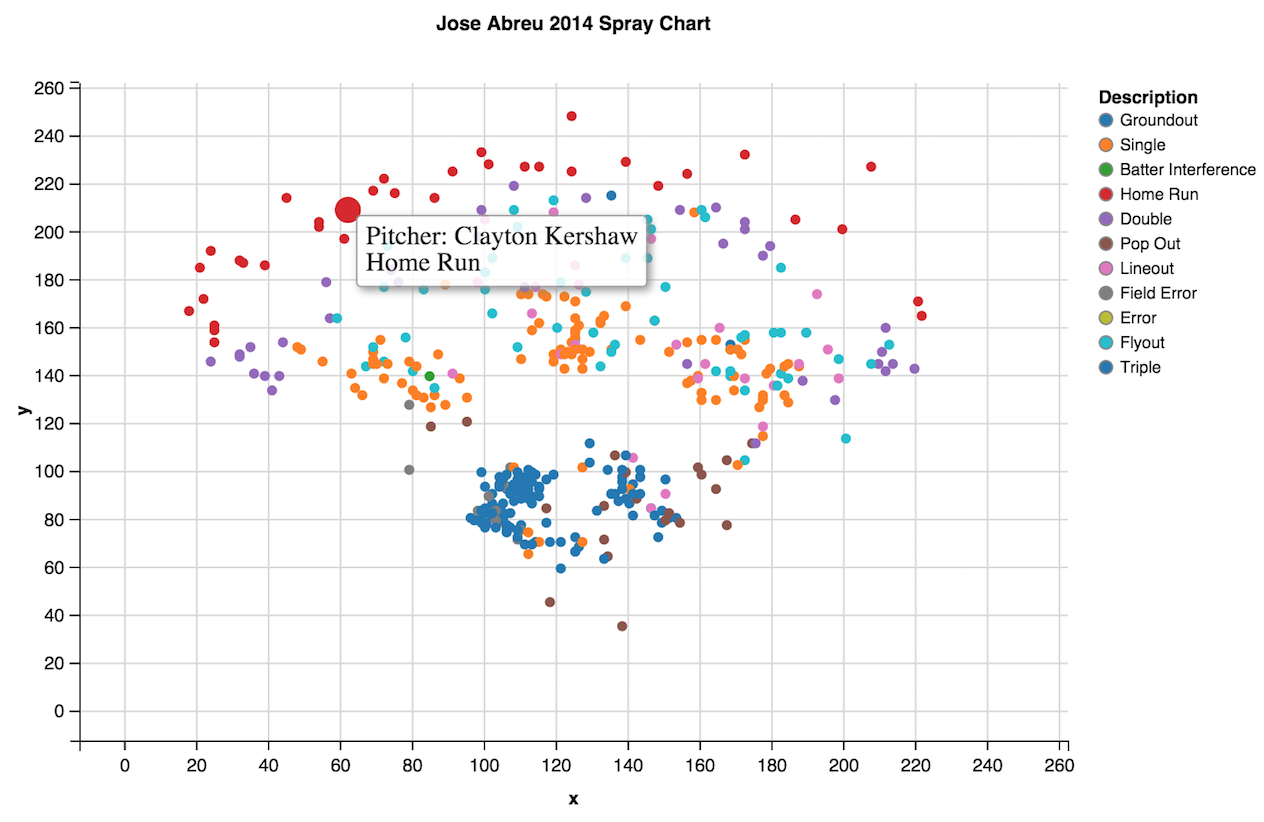
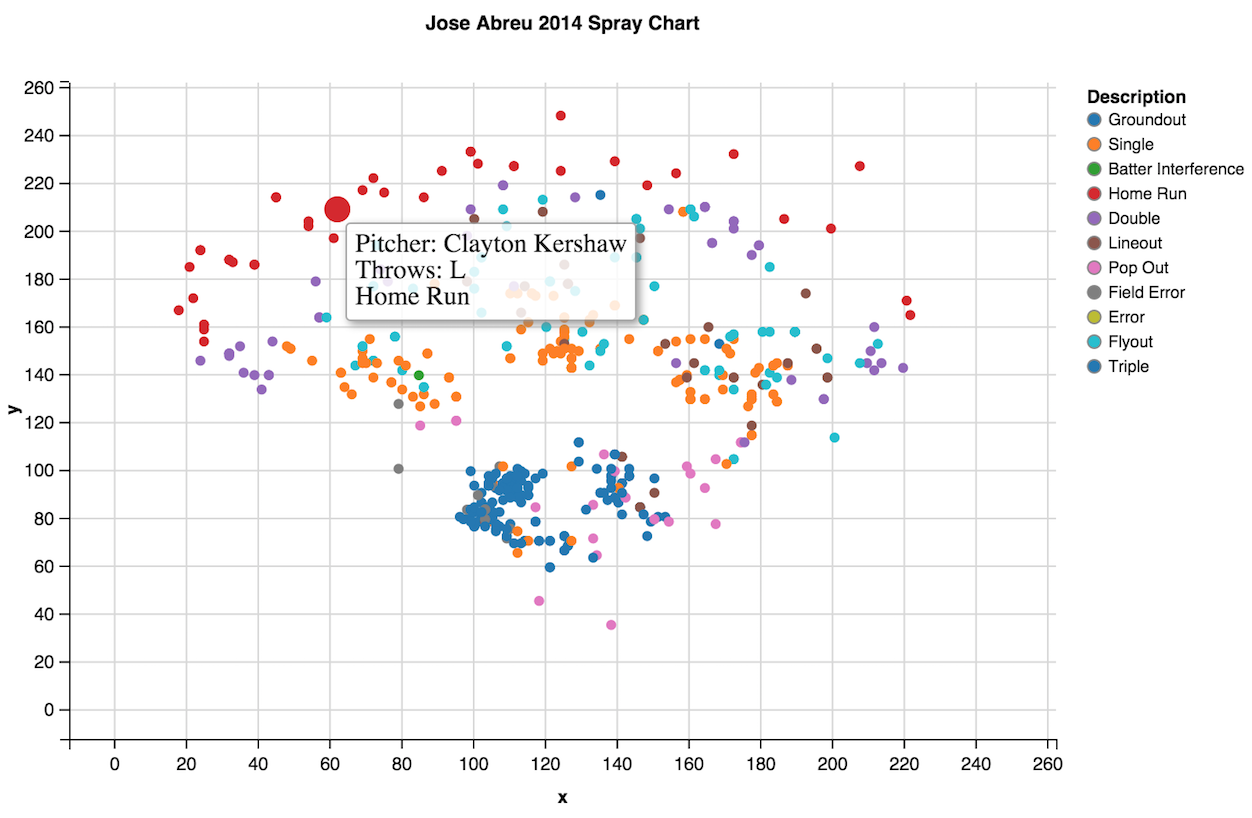
update

diff --git a/_posts/2015-03-23-spraychart.md b/_posts/2015-03-23-spraychart.md
@@ -79,17 +79,20 @@ Create a ggvis tooltip to be used when hovering over points.
 
 ```r
 # Create ggvis tooltip  
-spraychart$id <- 1:nrow(spraychart)
-
-all_values <- function(x) {
-  if(is.null(x)) return(NULL)
+  spraychart$id <- 1:nrow(spraychart)
   
-  paste0("Pitcher: ",
-         spraychart$pitcher.name[x$id],
-         "<br>",
-         spraychart$Description[x$id]
-  )
-}
+  all_values <- function(x) {
+    if(is.null(x)) return(NULL)
+    
+    paste0("Pitcher: ",
+           spraychart$pitcher.name[x$id],
+           "<br>",
+           "Throws: ",
+           spraychart$pitcher.rl[x$id],
+           "<br>",
+           spraychart$Description[x$id]
+    )
+  }
 ```
 
 
